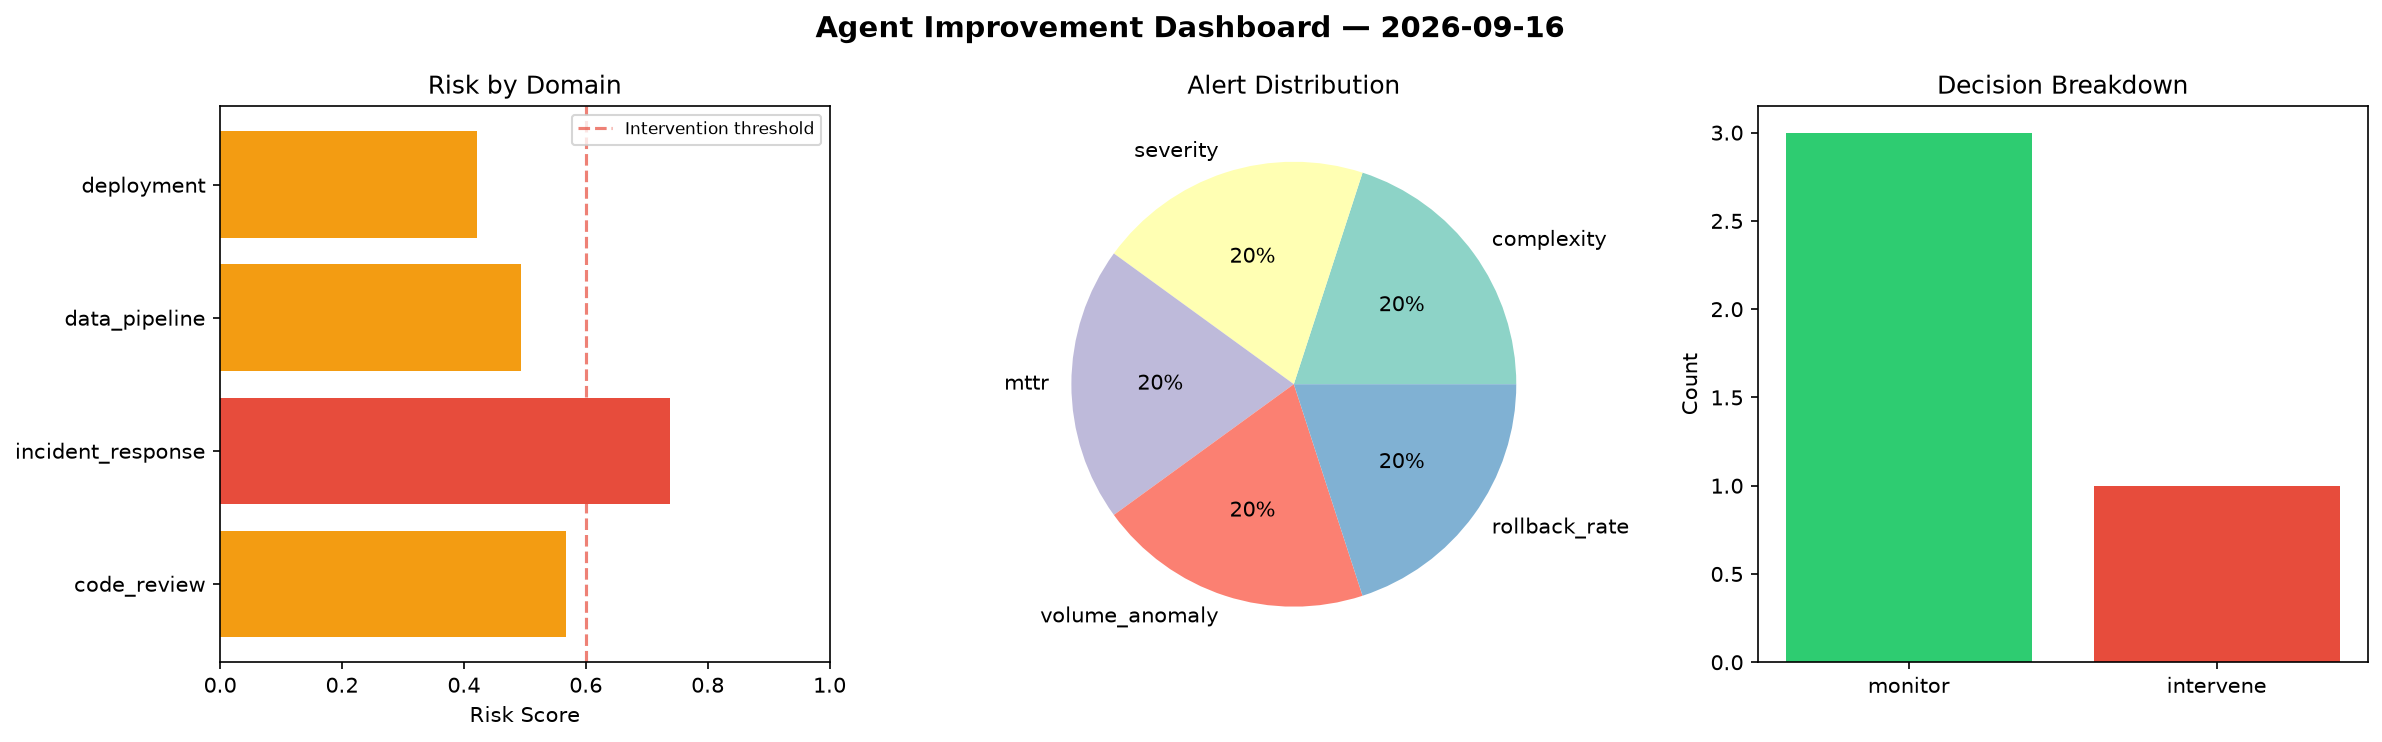
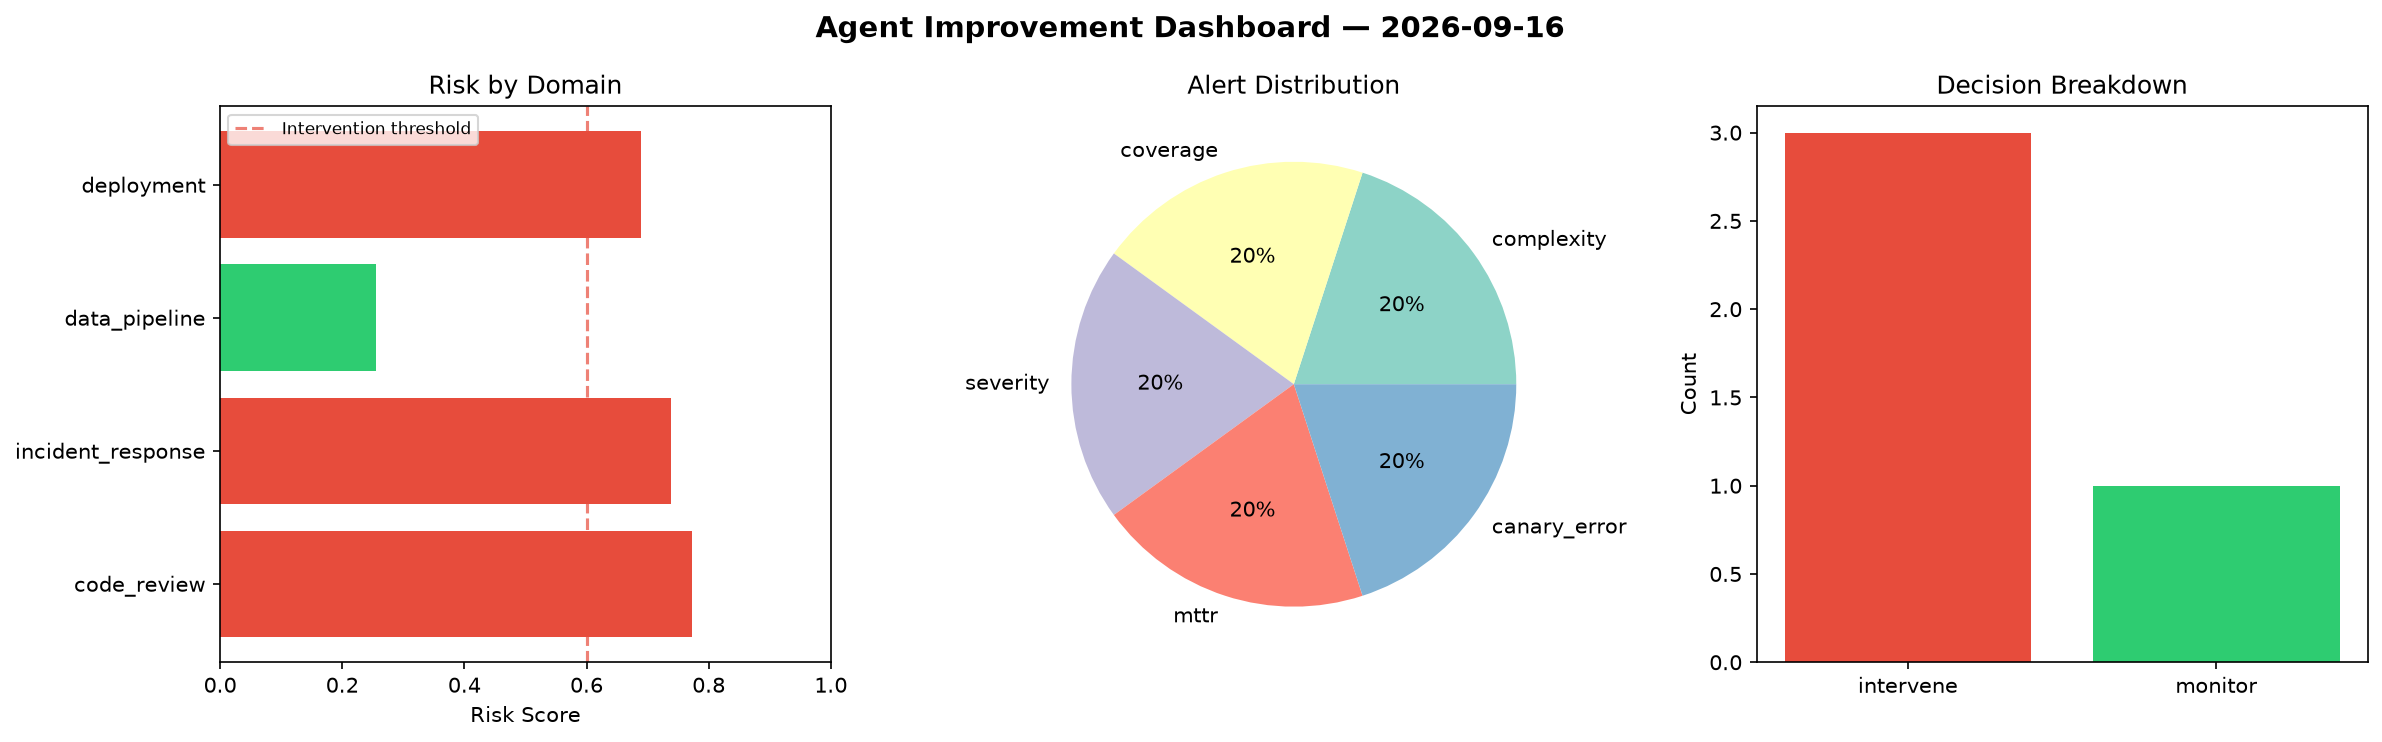
agent-improvement: daily cycle 2026-09-16T22:55

diff --git a/logs/2026-09-16.md b/logs/2026-09-16.md
@@ -1,6 +1,6 @@
 # Agent Improvement Report — 2026-09-16
 
-**Cycle ID:** `220ea507` | **Avg Risk:** 0.5553 | **Interventions:** 1/4
+**Cycle ID:** `668ddfa4` | **Avg Risk:** 0.6139 | **Interventions:** 3/4
 
 ![Dashboard](2026-09-16_dashboard.png)
 
@@ -10,18 +10,18 @@
 
 | Domain | Risk Score | Decision | Alerts |
 |--------|-----------|----------|--------|
-| code_review | 0.5681 | monitor | complexity |
-| incident_response | 0.7375 | intervene | severity, mttr |
-| data_pipeline | 0.4933 | monitor | volume_anomaly |
-| deployment | 0.4221 | monitor | rollback_rate |
+| code_review | 0.7726 | intervene | complexity, coverage |
+| incident_response | 0.738 | intervene | severity, mttr |
+| data_pipeline | 0.2551 | monitor | none |
+| deployment | 0.6899 | intervene | canary_error |
 
 ## Delta vs Yesterday
 
 | Domain | Today | Yesterday | Change |
 |--------|-------|-----------|--------|
-| code_review | 0.5681 | 0.5914 | 📉 -3.9% |
-| incident_response | 0.7375 | 0.6444 | 📈 14.4% |
-| data_pipeline | 0.4933 | 0.5902 | 📉 -16.4% |
-| deployment | 0.4221 | 0.437 | 📉 -3.4% |
+| code_review | 0.7726 | 0.5914 | 📈 30.6% |
+| incident_response | 0.738 | 0.6444 | 📈 14.5% |
+| data_pipeline | 0.2551 | 0.5902 | 📉 -56.8% |
+| deployment | 0.6899 | 0.437 | 📈 57.9% |
 
 **Refinement:** `{'adjustment': 'maintain', 'trend': 'improving', 'window': 4}`
